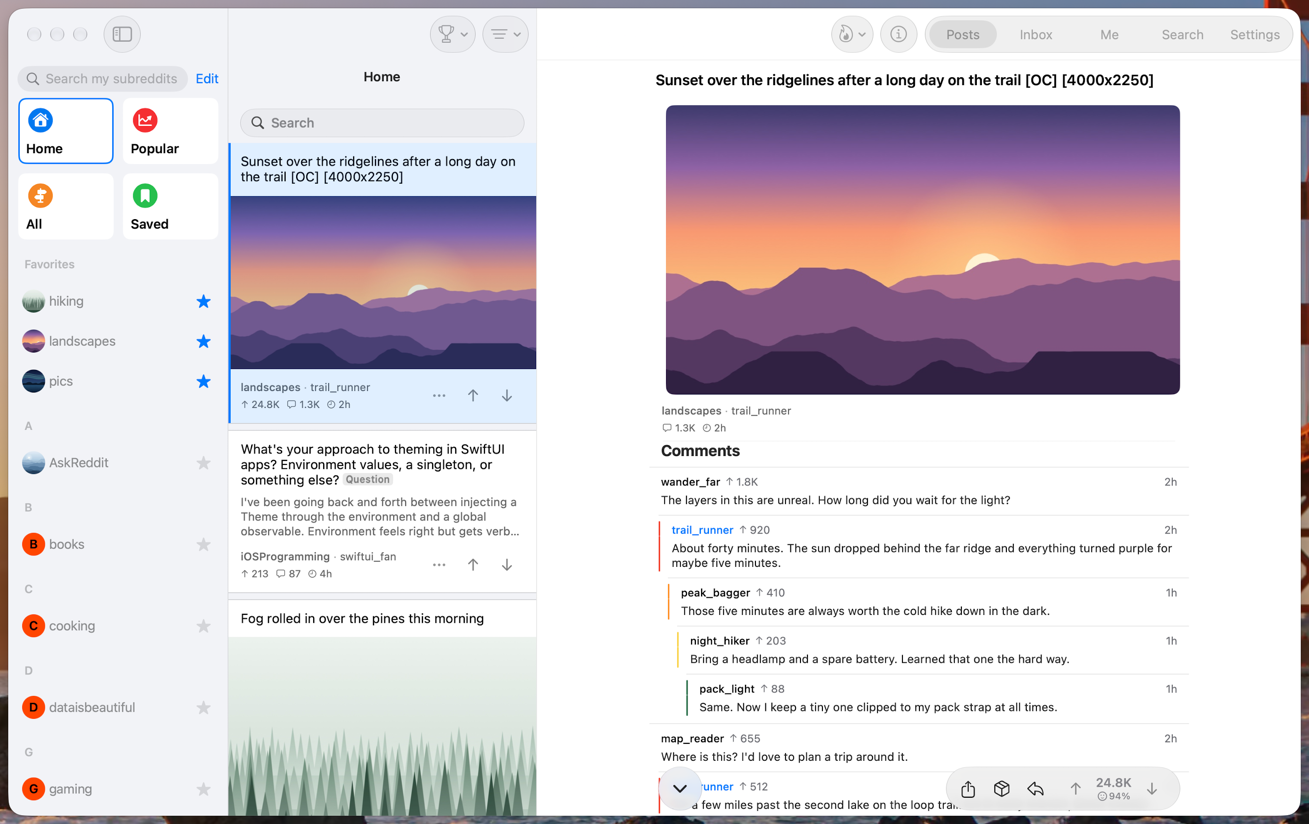
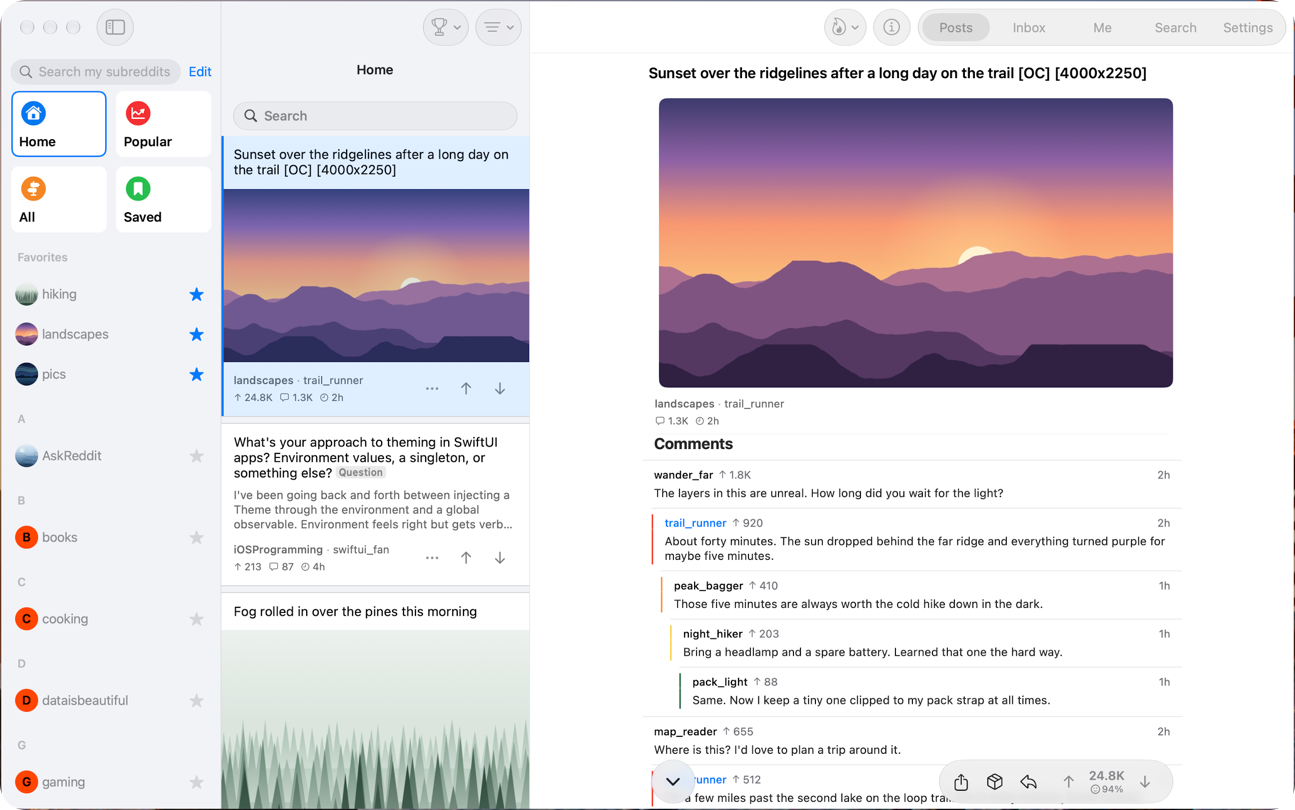
docs: restyle the README and label each screenshot with its platform
Centers the header with the app icon, a one-line summary and quick
links, and puts the screenshots in a table captioned Mac, iPad,
iPhone Duo and iPhone. The Mac screenshot loses the strip of desktop
around the window. Install now says signing in needs no API key, and
using your own key moves into a collapsed section. The release badge
is dropped while the repo has no releases.

diff --git a/README.md b/README.md
@@ -8,12 +8,9 @@
 
 No analytics, no tracking, no ads. Your account talks only to Reddit.
 
-[![Build](https://github.com/sozercan/helio/actions/workflows/build.yml/badge.svg)](https://github.com/sozercan/helio/actions/workflows/build.yml)
-[![Release](https://img.shields.io/github/v/release/sozercan/helio)](https://github.com/sozercan/helio/releases)
-![Platforms](https://img.shields.io/badge/platforms-iOS%20·%20iPadOS%20·%20macOS-blue)
-[![License](https://img.shields.io/github/license/sozercan/helio)](LICENSE.md)
+[![Build](https://github.com/sozercan/helio/actions/workflows/build.yml/badge.svg)](https://github.com/sozercan/helio/actions/workflows/build.yml) ![Platforms](https://img.shields.io/badge/platforms-iOS%20·%20iPadOS%20·%20macOS-blue) [![License](https://img.shields.io/github/license/sozercan/helio)](LICENSE.md)
 
-[Download](https://github.com/sozercan/helio/releases) · [Install](#install) · [Report a bug](https://github.com/sozercan/helio/issues) · [Contributing](CONTRIBUTING.md)
+[Install](#install) · [Report a bug](https://github.com/sozercan/helio/issues) · [Contributing](CONTRIBUTING.md)
 
 </div>
 
